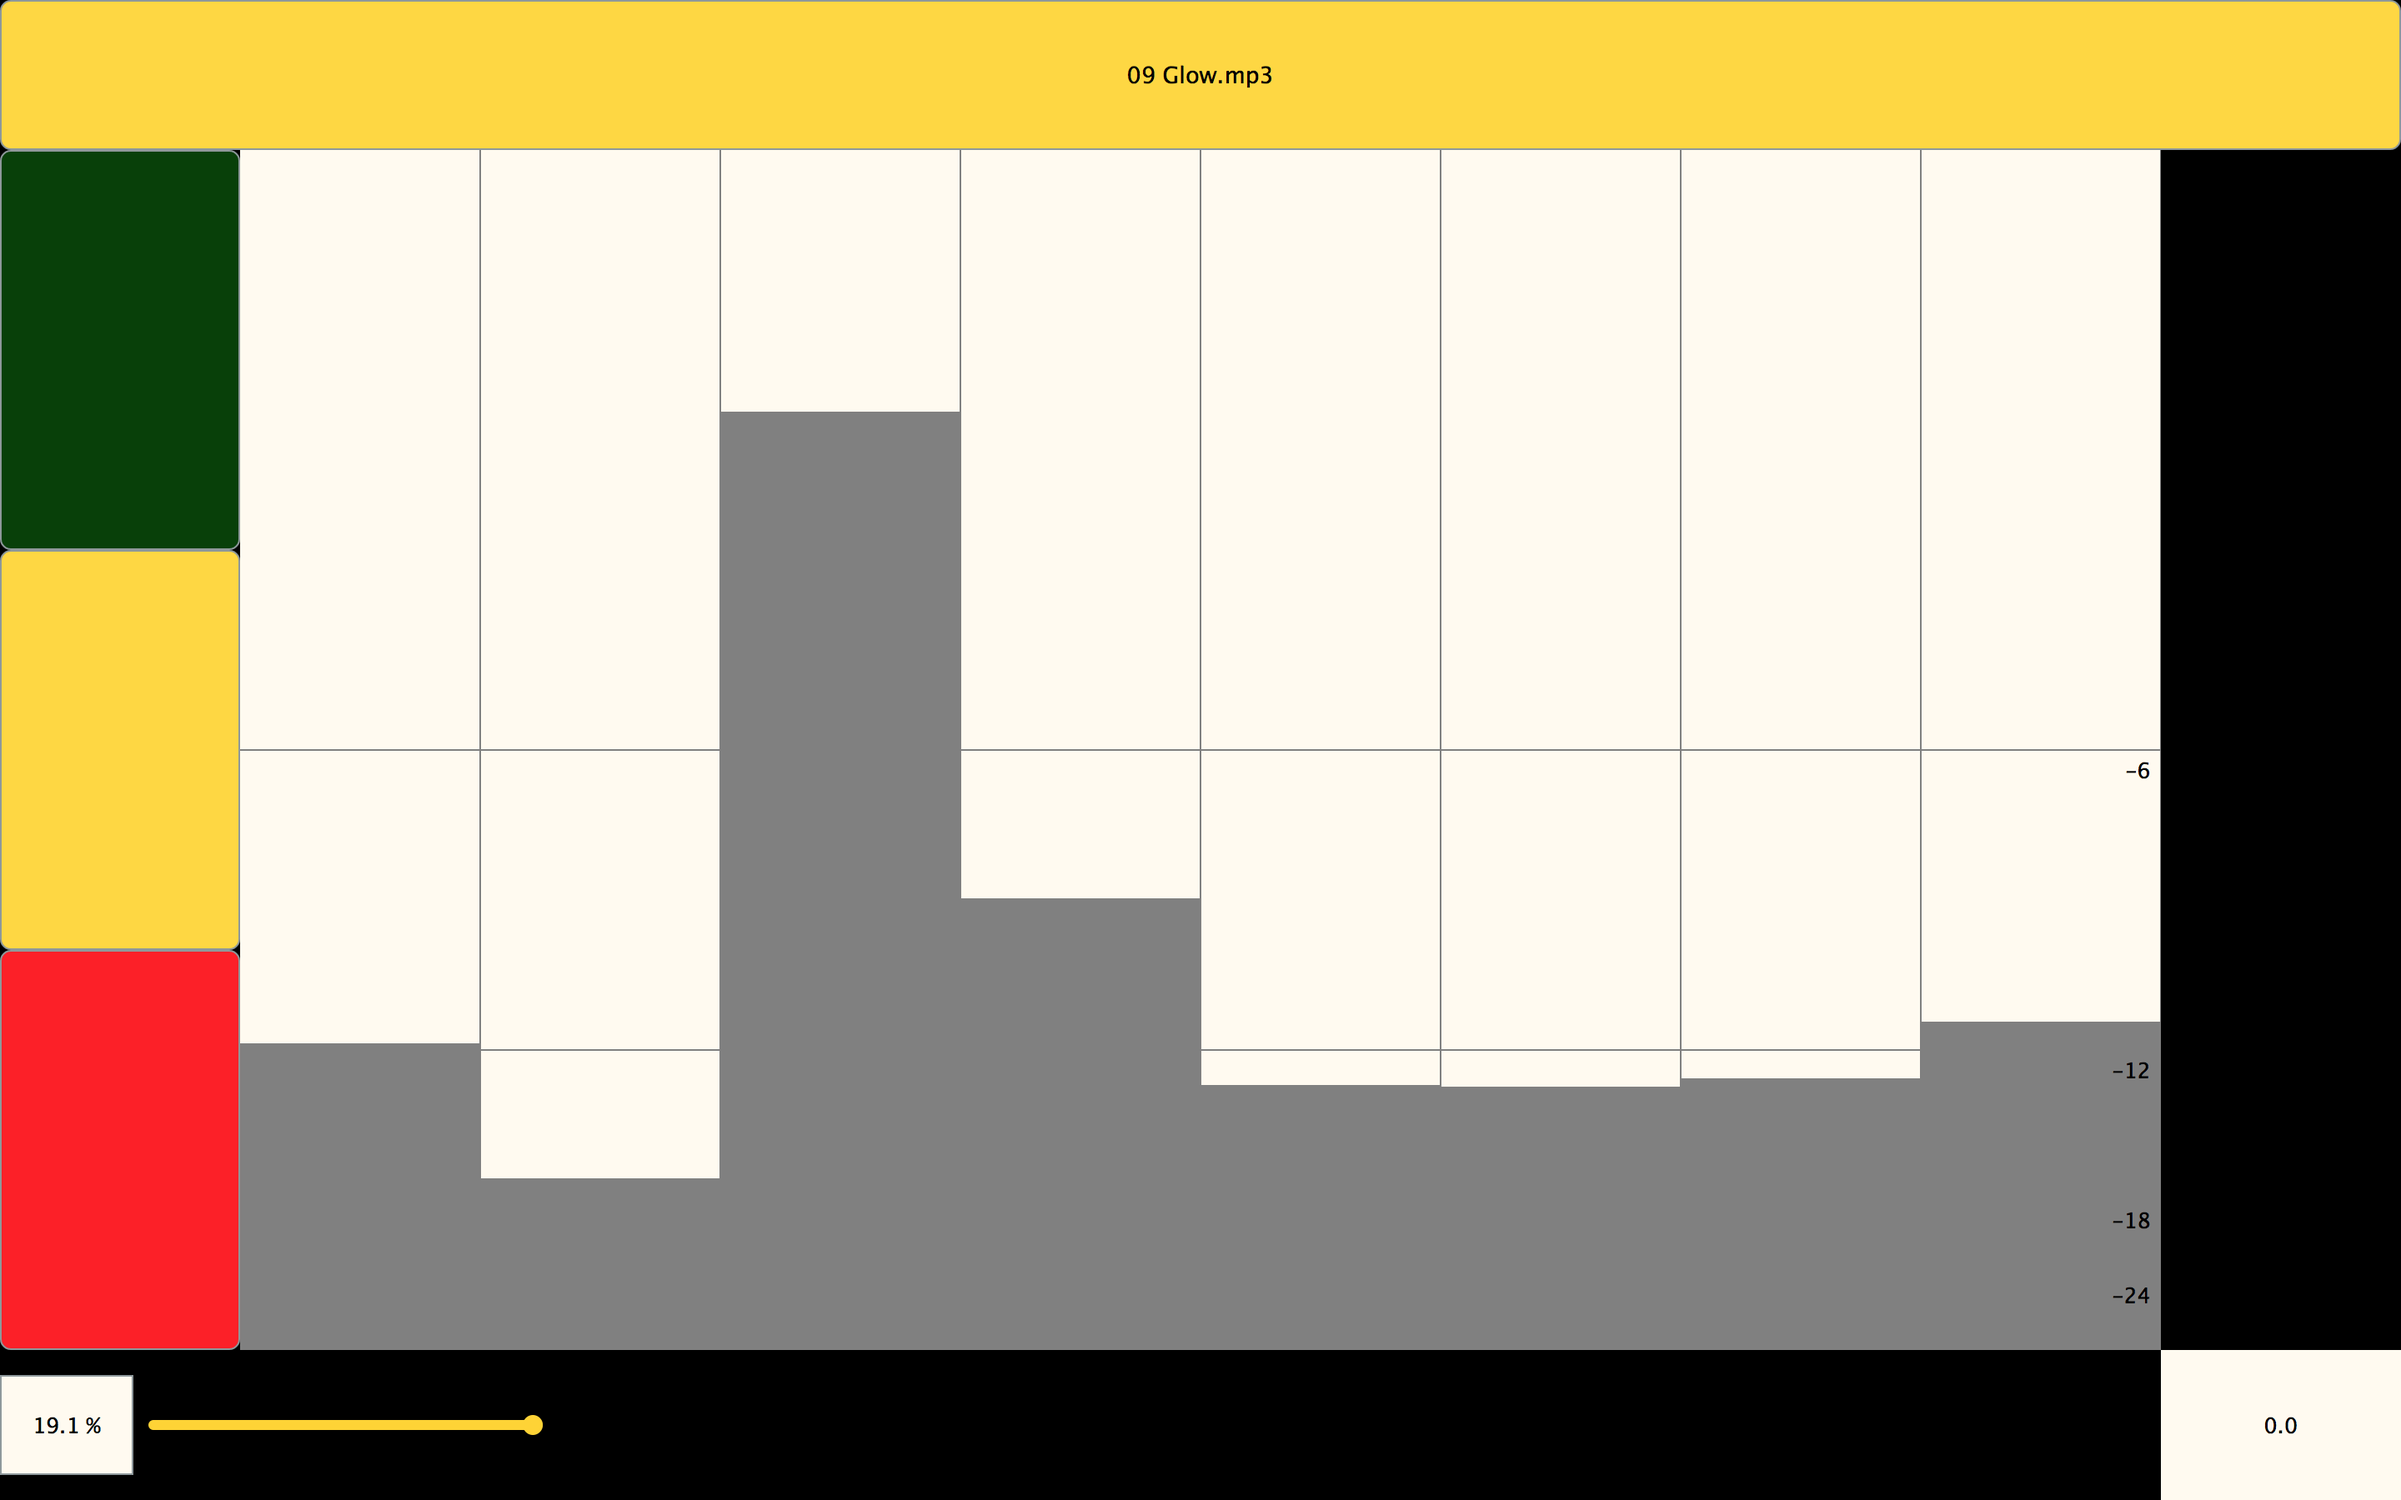
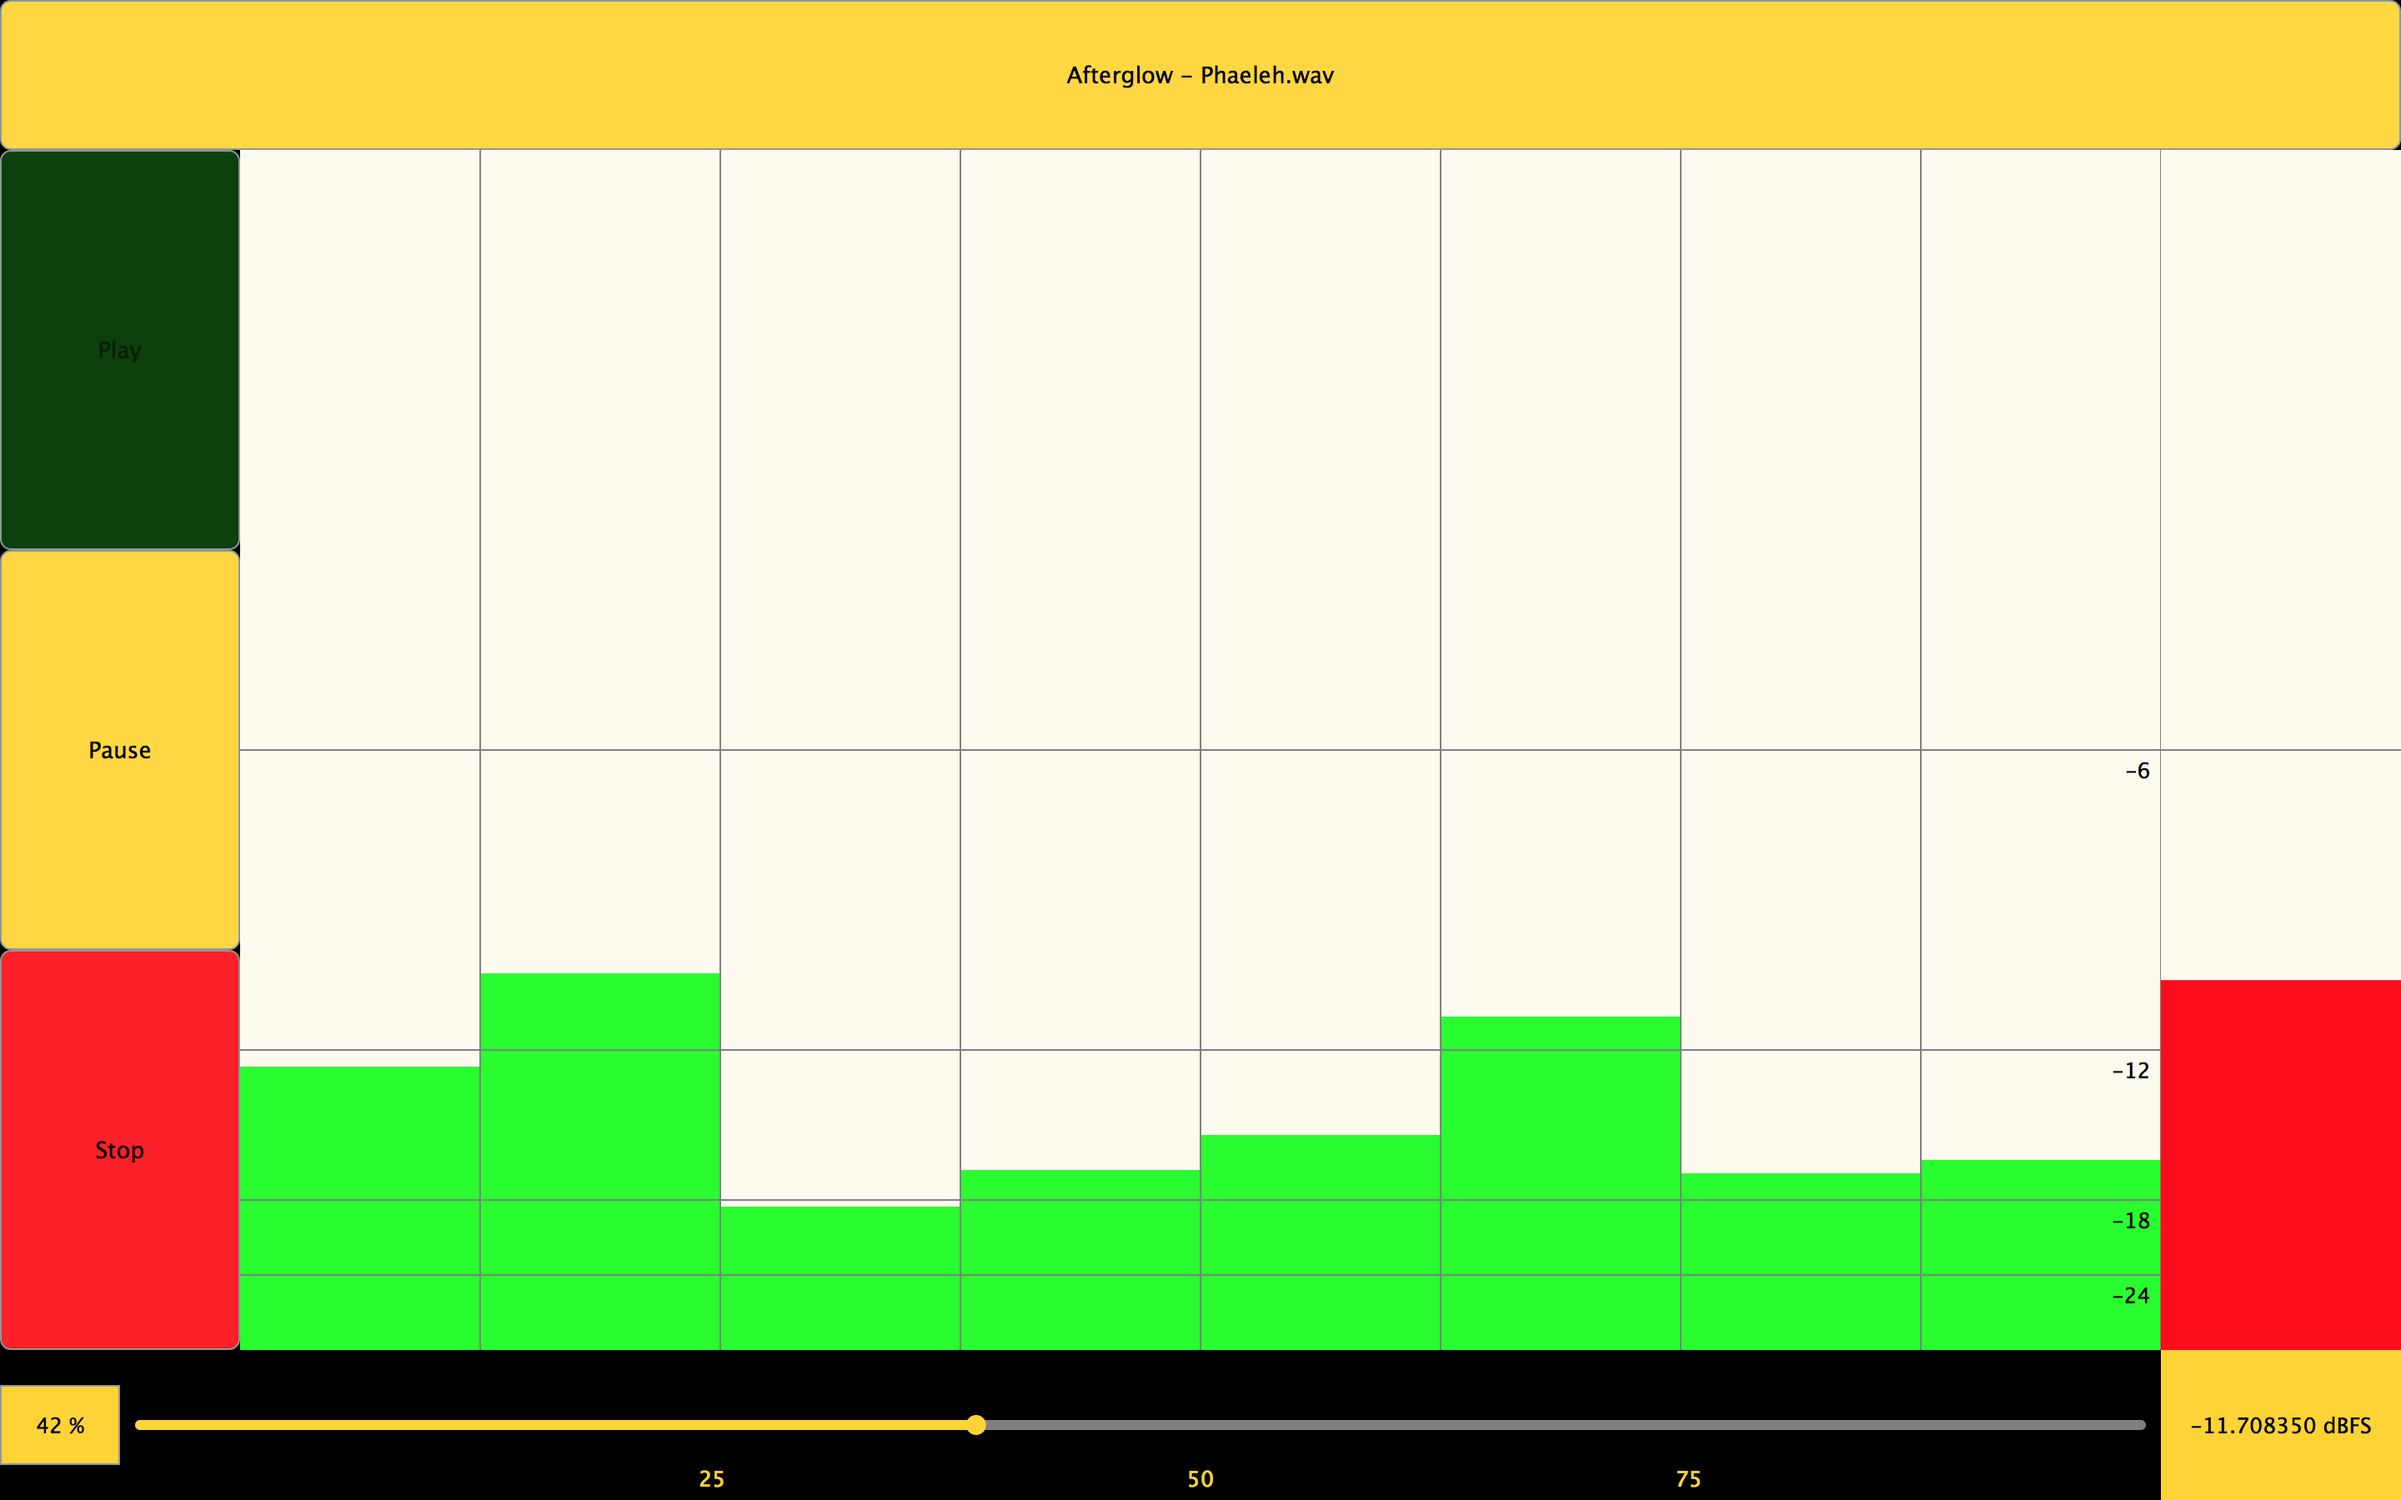
Added an RMS meter display, now responds to clicks on the transport

diff --git a/Application/SpectralViewer/Source/MainComponent.cpp b/Application/SpectralViewer/Source/MainComponent.cpp
@@ -14,7 +14,8 @@
 MainComponent::MainComponent() :    state(Stopped),
                                     projectTime(0.0),
                                     fileLength(1.0),
-                                    sampleFreq(44100)
+                                    sampleFreq(44100),
+                                    wasPaused(true)
 
 {
     // Sets the size of the application.
@@ -31,9 +32,9 @@ MainComponent::MainComponent() :    state(Stopped),
     
     // Sets what all the text buttons say.
     open.setButtonText("---> Open a File <---");
-//    play.setButtonText("Play");
-//    pause.setButtonText("Pause");
-//    stop.setButtonText("Stop");
+    play.setButtonText("Play");
+    pause.setButtonText("Pause");
+    stop.setButtonText("Stop");
     
     // Disable all the buttons at the start.
     play.setEnabled(false);
@@ -52,36 +53,56 @@ MainComponent::MainComponent() :    state(Stopped),
     
     // Provides the functionality for the buttons, i.e. once they are clicked
     open.onClick  = [this] { openClicked(); };
-    play.onClick  = [this] { playClicked(); };
-    pause.onClick = [this] { pauseClicked(); };
-    stop.onClick  = [this] { stopClicked(); };
+    play.onClick  = [this] { playClicked();  wasPaused = false; };
+    pause.onClick = [this] { pauseClicked(); wasPaused = true;  };
+    stop.onClick  = [this] { stopClicked();  wasPaused = true;  };
+    transportProgress.onDragStart = [this]
+    {
+        pauseClicked();
+    };
+    transportProgress.onDragEnd   = [this]
+    {
+        projectSource.setPosition(transportProgress.getValue()*fileLength/100);
+        if( !wasPaused )
+        {
+            playClicked();
+        }
+    };
     stop.addListener(this);
     
-    // Makes the spectrum analyzer, meter, and sliders visible.
+    
+    // Makes the spectrum analyzer, meter, and slider visible.
     addAndMakeVisible(&spectrum);
     addAndMakeVisible(&meter);
     addAndMakeVisible(&transportProgress);
-    addAndMakeVisible(&volumeBox);
-    
-    // Sets the color of the volume box.
-    volumeBox.setColour(Label::backgroundColourId, Colour(255,212,22));
-    volumeBox.setColour(Label::textColourId, Colours::black);
-    volumeBox.setText("0.0", dontSendNotification);
-    volumeBox.setJustificationType(juce::Justification::centred);
-    
+    addAndMakeVisible(&fiftyPer);
+    addAndMakeVisible(&twentyFivePer);
+    addAndMakeVisible(&seventyFivePer);
+
     
     // Customizes the display of the audio progress bar to display the percent through the audio file.
+    transportProgress.setSliderSnapsToMousePosition(true);
     transportProgress.setRange(0, 100);
     transportProgress.setTextValueSuffix(" %");
     transportProgress.setNumDecimalPlacesToDisplay(0);
+    transportProgress.setTextBoxIsEditable(false);
     transportProgress.setTextBoxStyle(juce::Slider::TextBoxLeft, false, 72, 48);
-    transportProgress.setColour(juce::Slider::backgroundColourId, Colours::black);
+    transportProgress.setColour(juce::Slider::backgroundColourId, Colours::grey);
     transportProgress.setColour(juce::Slider::trackColourId, Colour(255,212,22));
     transportProgress.setColour(juce::Slider::thumbColourId, Colour(255,212,22));
     transportProgress.setColour(juce::Slider::textBoxBackgroundColourId, Colour(255,212,22));
     transportProgress.setColour(juce::Slider::textBoxTextColourId, Colours::black);
     
-    // Customizes the style and range of the rotary dial.
+    // Customizes the transport bar label(s)
+    fiftyPer.setColour(Label::textColourId, Colour(255,212,22));
+    fiftyPer.setText("50", dontSendNotification);
+    fiftyPer.setJustificationType(Justification::centred);
+    twentyFivePer.setColour(Label::textColourId, Colour(255,212,22));
+    twentyFivePer.setText("25", dontSendNotification);
+    twentyFivePer.setJustificationType(Justification::left);
+    seventyFivePer.setColour(Label::textColourId, Colour(255,212    ,22));
+    seventyFivePer.setText("75", dontSendNotification);
+    seventyFivePer.setJustificationType(Justification::right);
     
     startTimer(100); // Starts the internal timing for the project. Corresponds to 1000/100 = 10 frames/second.
     filetypeManager.registerBasicFormats(); // Allows the user to select standard audio filetypes.
@@ -209,8 +230,11 @@ void MainComponent::changeListenerCallback (ChangeBroadcaster* source)
 
 void MainComponent::timerCallback()
 {
-    projectTime = projectSource.getCurrentPosition();
-    transportProgress.setValue(100*projectTime/fileLength);
+    if( !(transportProgress.isMouseButtonDown()) )
+    {
+        projectTime = projectSource.getCurrentPosition();
+        transportProgress.setValue(100*projectTime/fileLength);
+    }
 }
 
 
@@ -242,9 +266,6 @@ void MainComponent::getNextAudioBlock (const AudioSourceChannelInfo& filledBuffe
     }
     meter.createPeak(buffer, bufferSize);
     spectrum.createPeaks(buffer, bufferSize);
-
-    
-
 }
 
 void MainComponent::releaseResources()
@@ -291,7 +312,7 @@ void MainComponent::resized()
     spectrum.setBounds(spectrumArea);
     
     // Sets the region for the meter.
-    Rectangle<int> meterArea(getWidth()/10, getHeight()*4/5);
+    Rectangle<int> meterArea(getWidth()/10, getHeight()*9/10);
     meterArea.setPosition(spectrumArea.getTopRight());
     meter.setBounds(meterArea);
     
@@ -300,11 +321,20 @@ void MainComponent::resized()
     progressBarArea.setPosition(stopArea.getBottomLeft());
     transportProgress.setBounds(progressBarArea);
     
-    // Sets the region for the volume adjustment box.
-    Rectangle<int> textArea(getWidth()/10,getHeight()/10);
-    textArea.setPosition(spectrumArea.getBottomRight());
-    volumeBox.setBounds(textArea);
+    // Sets the region for the 50% marker.
+    Rectangle<int> fiftyArea(getWidth()/20,getHeight()/20);
+    fiftyArea.setCentre(getWidth()/2,getHeight()*69/70);
+    fiftyPer.setBounds(fiftyArea);
+    
+    // Sets the region for the 25% marker.
+    Rectangle<int> twentyFiveArea(getWidth()/20,getHeight()/20);
+    twentyFiveArea.setCentre(getWidth()*5/16,getHeight()*69/70);
+    twentyFivePer.setBounds(twentyFiveArea);
 
+    // Sets the region for the 75% marker.
+    Rectangle<int> seventyFiveArea(getWidth()/20,getHeight()/20);
+    seventyFiveArea.setCentre(getWidth()*11/16,getHeight()*69/70);
+    seventyFivePer.setBounds(seventyFiveArea);
     
 }
 

diff --git a/Application/SpectralViewer/Source/MeterComponent.cpp b/Application/SpectralViewer/Source/MeterComponent.cpp
@@ -10,15 +10,25 @@
 #include "../JuceLibraryCode/JuceHeader.h"
 #include "MeterComponent.h"
 #include <cmath>
+#include <string>
 
 //==============================================================================
 MeterComponent::MeterComponent() :
                                     graphicsLocked(true),
-                                    componentWidth(getWidth()),
-                                    componentHeight(getHeight())
+                                    RMS(0.0),
+                                    componentHeight(getHeight()),
+                                    componentWidth(getWidth())
+
+                                    
 
 {
+    addAndMakeVisible(&volumeBox);
+    volumeBox.setColour(Label::backgroundColourId, Colour(255,212,22));
+    volumeBox.setColour(Label::textColourId, Colours::black);
+    volumeBox.setText("0.0 dBFS", dontSendNotification);
+    volumeBox.setJustificationType(juce::Justification::centred);
     
+    startTimer(100);
 }
 
 MeterComponent::~MeterComponent() {}
@@ -28,7 +38,7 @@ void MeterComponent::createPeak(float* buffer, int bufferSize)
     graphicsLocked = true;
     float height = computeRMS(buffer, bufferSize) * componentHeight;
     peak.setSize(componentWidth, height);
-    peak.setPosition(0, componentHeight - height);
+    peak.setPosition(0, componentHeight*8/9 - height);
     graphicsLocked = false;
 }
 
@@ -39,7 +49,14 @@ float MeterComponent::computeRMS(float* buffer, int bufferSize)
     {
         sum = sum + buffer[i]*buffer[i];
     }
-    return std::sqrt(sum/bufferSize);
+    float newRMS = std::sqrt(sum/bufferSize);
+    setRMS(newRMS);
+    return newRMS;
+}
+
+void MeterComponent::setRMS(float newRMS)
+{
+    RMS = newRMS;
 }
 
 void MeterComponent::paint (Graphics& g)
@@ -49,7 +66,7 @@ void MeterComponent::paint (Graphics& g)
     
     for( int i = 1; i < 5; ++i )
     {
-        unsigned lineHeight = componentHeight - componentHeight/(exp2(i));
+        unsigned lineHeight = 8*(componentHeight - componentHeight/(exp2(i)))/9;
         g.drawLine(0, lineHeight, componentWidth, lineHeight);
     }
     
@@ -62,8 +79,26 @@ void MeterComponent::paint (Graphics& g)
     }
 }
 
+void MeterComponent::timerCallback()
+{
+    if( RMS > 0.000001 )
+    {
+        volumeBox.setText(std::to_string(6*log2(RMS)) + " dBFS", dontSendNotification);
+    }
+    else
+    {
+        volumeBox.setText("-inf\ndBFS", dontSendNotification);
+    }
+}
+
+
 void MeterComponent::resized()
 {
+    // Sets the region for the volume adjustment box.
+    Rectangle<int> textArea(getWidth(),getHeight()/9);
+    textArea.setPosition(0,getHeight()*8/9);
+    volumeBox.setBounds(textArea);
+    
     repaint();
     componentHeight = getHeight();
     componentWidth  = getWidth();

diff --git a/Application/SpectralViewer/Source/MainComponent.h b/Application/SpectralViewer/Source/MainComponent.h
@@ -110,12 +110,14 @@ private:
     TextButton play;    // Object so that I can play the selected file.
     TextButton pause;   // Object so that I can pause the selected file.
     TextButton stop;    // Object so that I can stop the selected file.
+    
+    Label fiftyPer;         // Marks 50% through the audio file.
+    Label twentyFivePer;    // Marks 25% through the audio file.
+    Label seventyFivePer;   // Marks 75% through the audio file.
         
     SpectralViewComponent spectrum; // Component that holds the functionality of the spectrum-viewer.
     MeterComponent meter; // Component that holds the functionality of the volume meter.
-    Slider transportProgress; // Object that shows how far through the audio file we are.
-    Label volumeBox;          // Textbox to change the gain (volume) of the signal.
-    
+    Slider transportProgress; // Object that shows how far through the audio file we are.    
     
     AudioFormatManager filetypeManager; // Manages the file type (.mp3, .wav, ...).
     std::unique_ptr<AudioFormatReaderSource> fileSource; // Points to source properties of the file.
@@ -128,6 +130,8 @@ private:
     double sampleFreq;                  // Sample rate of the selected file.
     float* buffer;                      // Will be used to point to an array storing samples.
     int    bufferSize;                  // Size of the buffer.
+    
+    bool   wasPaused;
     
     JUCE_DECLARE_NON_COPYABLE_WITH_LEAK_DETECTOR (MainComponent)
     

diff --git a/Application/SpectralViewer/Source/MeterComponent.h b/Application/SpectralViewer/Source/MeterComponent.h
@@ -15,7 +15,8 @@
 //==============================================================================================================
 /*
 */
-class MeterComponent    : public Component
+class MeterComponent    :   public Component,
+                            public Timer
 {
 public:
     MeterComponent();
@@ -25,13 +26,20 @@ public:
 
     float computeRMS(float* buffer, int bufferSize);
     
+    void setRMS(float oldRMS);
+
+    void timerCallback() override;
+    
     void paint (Graphics&) override;
     void resized() override;
 
 private:
     //==========================================================================================================
-    bool graphicsLocked;
+    Label volumeBox;          // Textbox to change the gain (volume) of the signal.
     Rectangle<float> peak;
+    
+    bool graphicsLocked;
+    float RMS;
     unsigned componentHeight; // Height of graphic component in pixels.
     unsigned componentWidth; // Height of graphic component in pixels.
     
